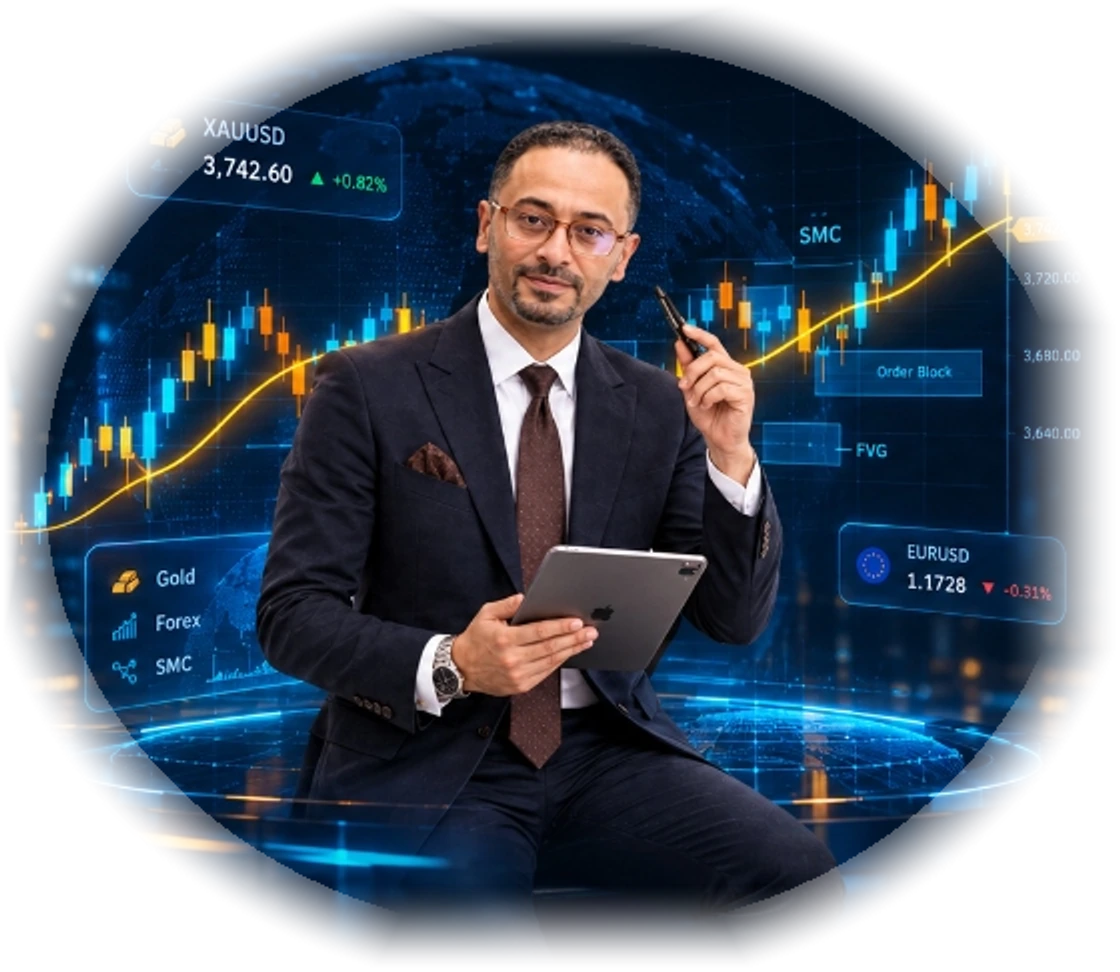
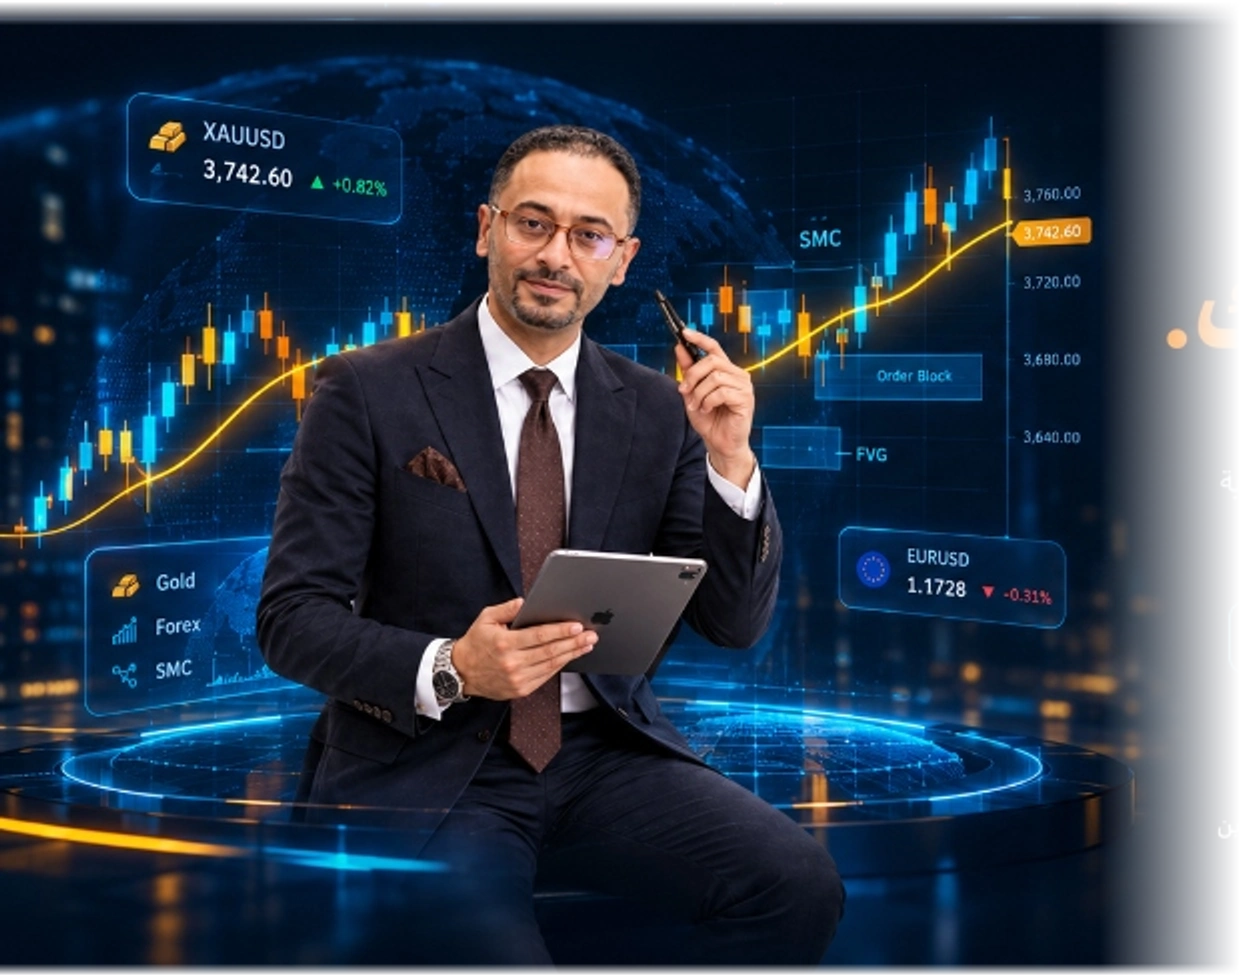
feat(hero): span visual frame from section start to end of div across full section height

diff --git a/frontend/app/components/Hero.js b/frontend/app/components/Hero.js
@@ -214,10 +214,11 @@ export default function Hero() {
         width: '100%',
         maxWidth: '100%',
         display: 'flex',
-        alignItems: 'center',
+        alignItems: 'stretch',
         position: 'relative',
         overflow: 'hidden',
-        padding: 'calc(var(--ticker-height, 2.75rem) + clamp(1.25rem, 2.2vw, 1.75rem)) 0 clamp(2.5rem, 5vw, 3.75rem)',
+        padding: 0,
+        paddingTop: 'var(--ticker-height, 2.75rem)',
         background: 'radial-gradient(ellipse 80% 60% at 50% 10%, rgba(4, 136, 248, 0.1) 0%, transparent 70%), #010A19',
       }}
     >
@@ -259,12 +260,11 @@ export default function Hero() {
         WebkitMask: 'radial-gradient(ellipse 75% 75% at 50% 50%, black 20%, transparent 80%)',
       }} />
 
-      <div className="container" style={{ position: 'relative', zIndex: 1, width: '100%', paddingTop: 'clamp(0.75rem, 2vw, 1.25rem)' }}>
-        
-        {/* ═══════════════════════════════════════════════════════════════════
-            LOGGED-IN USER PERSONALIZED HERO VIEW
-        ═══════════════════════════════════════════════════════════════════ */}
-        {isAuthenticated && user ? (
+      {/* ═══════════════════════════════════════════════════════════════════
+          LOGGED-IN USER PERSONALIZED HERO VIEW
+      ═══════════════════════════════════════════════════════════════════ */}
+      {isAuthenticated && user ? (
+        <div className="container" style={{ position: 'relative', zIndex: 1, width: '100%', paddingTop: 'clamp(0.75rem, 2vw, 1.25rem)', paddingBottom: 'clamp(2rem, 3.5vw, 3rem)' }}>
           <div className="hero-grid" style={{ gridTemplateColumns: '1.08fr 0.92fr', gap: '32px', alignItems: 'center' }}>
             {/* Right Column (in RTL): Personalized Cockpit Greeting + Bento Grid */}
             <div style={{ display: 'flex', flexDirection: 'column', gap: '16px' }}>
@@ -1244,33 +1244,38 @@ export default function Hero() {
               </div>
             </div>
           </div>
-        ) : (
-          /* ═══════════════════════════════════════════════════════════════════
-             GUEST / UNAUTHENTICATED HERO VIEW
-          ═══════════════════════════════════════════════════════════════════ */
+        </div>
+      ) : (
+        /* ═══════════════════════════════════════════════════════════════════
+           GUEST / UNAUTHENTICATED HERO VIEW (FULL BLEED SCREEN WIDTH & HEIGHT)
+        ═══════════════════════════════════════════════════════════════════ */
+        <div
+          className="hero-reference-grid"
+          style={{
+            display: 'grid',
+            gridTemplateColumns: 'minmax(0, 1.05fr) minmax(0, 0.95fr)',
+            width: '100%',
+            minHeight: 'calc(100dvh - var(--header-height, 4.5rem) - var(--ticker-height, 2.75rem))',
+            alignItems: 'stretch',
+            position: 'relative',
+            zIndex: 2,
+          }}
+        >
+          {/* ── Right Column (in RTL): Content ──────── */}
           <div
-            className="hero-reference-grid"
+            className="hero-reference-content"
             style={{
-              display: 'grid',
-              gridTemplateColumns: 'minmax(0, 1.05fr) minmax(0, 0.95fr)',
-              gap: 'clamp(2rem, 3.5vw, 4rem)',
-              alignItems: 'center',
-              width: '100%',
-              position: 'relative',
-              zIndex: 2,
+              display: 'flex',
+              flexDirection: 'column',
+              justifyContent: 'center',
+              gap: 'clamp(1rem, 1.8vw, 1.5rem)',
+              textAlign: isAr ? 'right' : 'left',
+              paddingInlineEnd: 'clamp(1.5rem, 5vw, 5rem)',
+              paddingInlineStart: 'clamp(1rem, 2.5vw, 3rem)',
+              paddingBlock: 'clamp(2rem, 3.5vw, 4rem)',
+              zIndex: 3,
             }}
           >
-            {/* ── Right Column (in RTL): Content ──────── */}
-            <div
-              className="hero-reference-content"
-              style={{
-                display: 'flex',
-                flexDirection: 'column',
-                gap: 'clamp(1rem, 1.8vw, 1.5rem)',
-                textAlign: isAr ? 'right' : 'left',
-                zIndex: 3,
-              }}
-            >
               {/* Main Headline matching reference exactly */}
               <h1
                 style={{
@@ -1494,50 +1499,58 @@ export default function Hero() {
               style={{
                 position: 'relative',
                 display: 'flex',
-                justifyContent: 'center',
-                alignItems: 'center',
+                justifyContent: isAr ? 'flex-start' : 'flex-end',
+                alignItems: 'flex-end',
                 width: '100%',
+                height: '100%',
+                minHeight: 'calc(100dvh - var(--header-height, 4.5rem) - var(--ticker-height, 2.75rem))',
+                overflow: 'hidden',
                 zIndex: 2,
               }}
             >
-              {/* Ambient atmospheric backlighting (Cyan & Blue Glow) */}
+              {/* Atmospheric cyan/blue glow backdrop across the visual frame */}
               <div
                 aria-hidden
                 style={{
                   position: 'absolute',
-                  inset: '-10% -8% -8% -8%',
-                  background: 'radial-gradient(ellipse 70% 60% at 48% 50%, rgba(0, 242, 254, 0.14) 0%, rgba(4, 136, 248, 0.09) 45%, transparent 75%)',
-                  borderRadius: '50%',
-                  filter: 'blur(55px)',
+                  inset: 0,
+                  background: 'radial-gradient(ellipse 90% 70% at 30% 65%, rgba(0, 242, 254, 0.12) 0%, rgba(4, 136, 248, 0.08) 40%, transparent 75%)',
                   pointerEvents: 'none',
                   zIndex: 1,
                 }}
               />
 
-              {/* Main Visual Image seamlessly integrated with radial edge dissolution */}
+              {/* Main Visual Image spanning from start of section to end of div and full section height */}
               <div
                 style={{
                   position: 'relative',
                   width: '100%',
-                  maxWidth: '820px',
+                  height: '100%',
                   display: 'flex',
-                  alignItems: 'center',
-                  justifyContent: 'center',
+                  alignItems: 'flex-end',
+                  justifyContent: isAr ? 'flex-start' : 'flex-end',
                   zIndex: 2,
-                  WebkitMaskImage: 'radial-gradient(ellipse 92% 88% at 48% 50%, #000000 60%, rgba(0, 0, 0, 0.75) 78%, transparent 100%)',
-                  maskImage: 'radial-gradient(ellipse 92% 88% at 48% 50%, #000000 60%, rgba(0, 0, 0, 0.75) 78%, transparent 100%)',
                 }}
               >
-                <picture style={{ width: '100%', display: 'flex', justifyContent: 'center' }}>
-                  <source srcSet="/assets/Images/Main/hero_fintech_visual@2x.webp?v=3" type="image/webp" />
+                <picture
+                  style={{
+                    width: '100%',
+                    height: '100%',
+                    display: 'flex',
+                    alignItems: 'flex-end',
+                    justifyContent: isAr ? 'flex-start' : 'flex-end',
+                  }}
+                >
+                  <source srcSet="/assets/Images/Main/hero_fintech_visual@2x.webp?v=4" type="image/webp" />
                   <img
-                    src="/assets/Images/Main/hero_fintech_visual.png?v=3"
+                    src="/assets/Images/Main/hero_fintech_visual.png?v=4"
                     alt="FXENGIN - مهندس الفوركس Gamal Ahmed SMC Trading Platform"
                     style={{
                       width: '100%',
-                      height: 'auto',
-                      maxHeight: 'clamp(480px, 55vw, 680px)',
-                      objectFit: 'contain',
+                      height: '100%',
+                      maxHeight: 'calc(100dvh - var(--header-height, 4.5rem) - var(--ticker-height, 2.75rem))',
+                      objectFit: 'cover',
+                      objectPosition: isAr ? 'left bottom' : 'right bottom',
                       display: 'block',
                       userSelect: 'none',
                       pointerEvents: 'none',
@@ -1548,8 +1561,7 @@ export default function Hero() {
             </div>
           </div>
         )}
+      </section>
+    );
+  }
 
-      </div>
-    </section>
-  );
-}

diff --git a/frontend/app/globals.css b/frontend/app/globals.css
@@ -397,8 +397,8 @@ section,
 }
 
 .site-main-content .hero-section {
-  padding-top: calc(var(--ticker-height, 2.75rem) + clamp(1.25rem, 2.2vw, 1.75rem)) !important;
-  padding-bottom: clamp(2.5rem, 4vw, 3.75rem) !important;
+  padding-top: var(--ticker-height, 2.75rem) !important;
+  padding-bottom: 0 !important;
   min-height: calc(100dvh - var(--header-height, 4.5rem)) !important;
   width: 100% !important;
   max-width: 100% !important;
@@ -717,39 +717,7 @@ section,
   background-color: var(--surface);
 }
 
-/* ===== HERO RESPONSIVE GRID & FLOATING BADGES ===== */
-.hero-reference-grid {
-  display: grid;
-  grid-template-columns: minmax(0, 1.05fr) minmax(0, 0.95fr);
-  gap: clamp(2rem, 3.5vw, 4rem);
-  align-items: center;
-  width: 100%;
-}
-
-.hero-reference-visual {
-  position: relative;
-  display: flex;
-  justifyContent: center;
-  align-items: center;
-  width: 100%;
-}
-
-@media (max-width: 991px) {
-  .hero-reference-grid {
-    grid-template-columns: 1fr !important;
-    gap: 2.25rem !important;
-  }
-  .hero-reference-visual {
-    max-width: 520px !important;
-    margin-inline: auto !important;
-  }
-}
-
-@media (max-width: 576px) {
-  .hero-reference-grid {
-    gap: 1.75rem !important;
-  }
-}
+/* ===== HERO COCKPIT / LOGGED IN GRID & BADGES ===== */
 
 .hero-grid {
   display: grid;
@@ -1398,12 +1366,48 @@ textarea:focus {
    ═══════════════════════════════════════════════════════════════ */
 .hero-reference-grid {
   display: grid;
-  grid-template-columns: minmax(0, 1.05fr) minmax(0, 0.95fr);
-  gap: clamp(2rem, 3.5vw, 4rem);
-  align-items: center;
+  grid-template-columns: minmax(0, 0.96fr) minmax(0, 1.04fr);
+  gap: 0;
   width: 100%;
+  min-height: calc(100dvh - var(--header-height, 4.5rem) - var(--ticker-height, 2.75rem));
+  align-items: stretch;
   position: relative;
   z-index: 2;
+}
+
+@media (min-width: 992px) {
+  .hero-reference-visual {
+    position: relative;
+    display: flex;
+    justify-content: flex-start;
+    align-items: flex-end;
+    width: 100%;
+    height: 100%;
+    min-height: calc(100dvh - var(--header-height, 4.5rem) - var(--ticker-height, 2.75rem));
+    overflow: hidden;
+  }
+  .hero-reference-visual picture {
+    display: flex !important;
+    width: 100% !important;
+    height: 100% !important;
+    align-items: flex-end !important;
+    justify-content: flex-start !important;
+  }
+  .hero-reference-visual img {
+    width: 100% !important;
+    height: 100% !important;
+    max-height: calc(100dvh - var(--header-height, 4.5rem) - var(--ticker-height, 2.75rem)) !important;
+    object-fit: cover !important;
+    object-position: bottom left !important;
+    display: block !important;
+  }
+  [dir="ltr"] .hero-reference-visual,
+  [dir="ltr"] .hero-reference-visual picture {
+    justify-content: flex-end !important;
+  }
+  [dir="ltr"] .hero-reference-visual img {
+    object-position: bottom right !important;
+  }
 }
 
 @media (max-width: 991px) {
@@ -1411,10 +1415,13 @@ textarea:focus {
     grid-template-columns: 1fr !important;
     gap: 2.25rem !important;
     text-align: center !important;
+    min-height: auto !important;
   }
   .hero-reference-content {
     align-items: center !important;
     text-align: center !important;
+    padding-inline: clamp(1rem, 3vw, 2rem) !important;
+    padding-block: 2rem !important;
   }
   .hero-reference-content p {
     text-align: center !important;
@@ -1430,8 +1437,13 @@ textarea:focus {
   }
   .hero-reference-visual {
     order: -1 !important;
-    max-width: 92% !important;
-    margin: 0 auto !important;
+    width: 100% !important;
+    min-height: clamp(340px, 48vw, 480px) !important;
+    height: auto !important;
+    justify-content: center !important;
+  }
+  .hero-reference-visual img {
+    object-position: center bottom !important;
   }
 }
 
